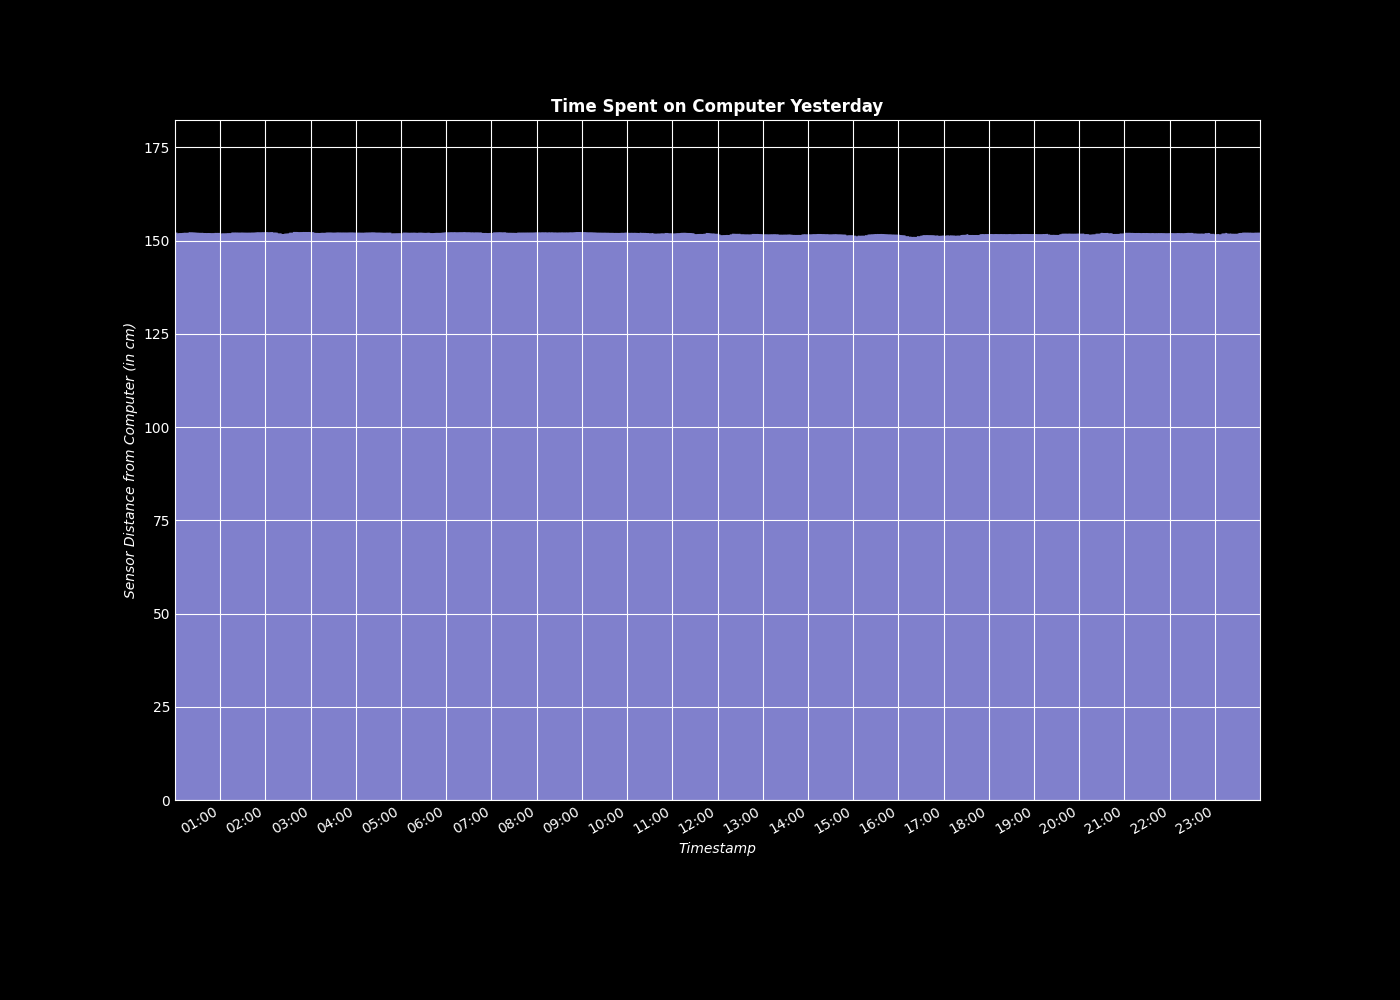
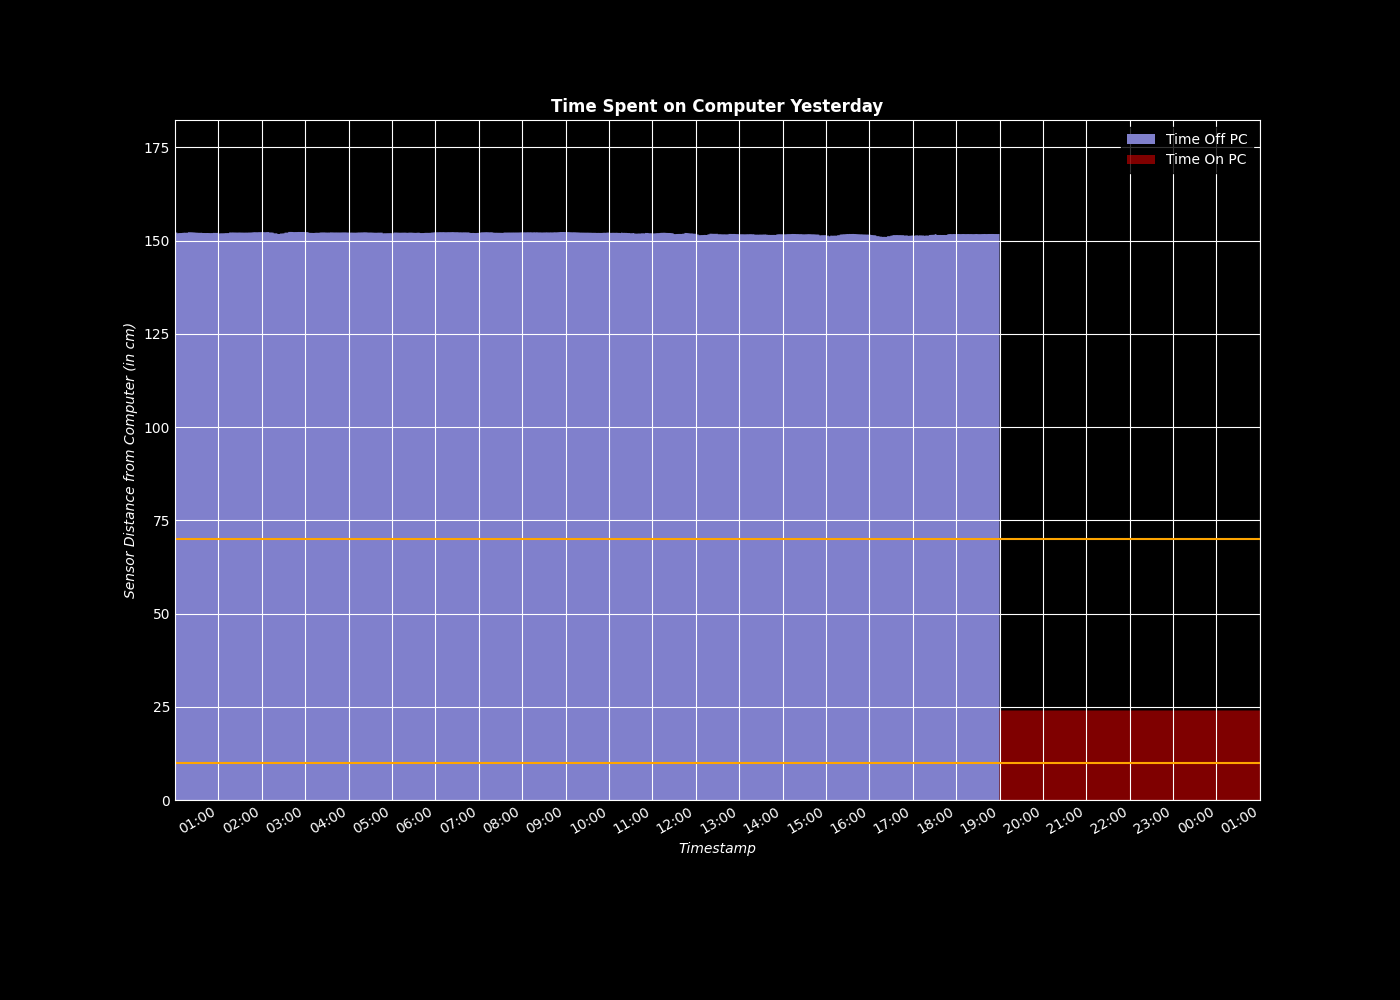
adding on_pc legend

diff --git a/Pi/readme/visualisation.py b/Pi/readme/visualisation.py
@@ -7,62 +7,66 @@ from pathlib import Path
 import pandas as pd
 from datetime import datetime, date, timedelta
 
+LOWER_LIMIT = 10
+HIGHER_LIMIT = 70
 
-def get_data(is_pi=False, date_filter=date.today() - timedelta(days=1)):
+
+def get_data(is_pi=False, day=1):
+    date_filter = date.today() - timedelta(days=day)
     dir_path = os.path.dirname(os.path.realpath(__file__))
     file_path = "data.json"
     if not is_pi:
         # Get data from saved dir since we can't access db
         with open(f"{dir_path}/{file_path}", "r") as data_file:
             data = json.load(data_file)
-        return data
+    else:
+        path = Path(dir_path)
+        parent_path = path.parent.absolute()
+        conn = db.connect_db(f"{parent_path}/db/mariadb_config.json")
+        cur = conn.cursor()
+        data = db.read_data(conn, cur, date_filter)
+        conn.close()
 
-    path = Path(dir_path)
-    parent_path = path.parent.absolute()
-    conn = db.connect_db(f"{parent_path}/db/mariadb_config.json")
-    cur = conn.cursor()
-    data = db.read_data(conn, cur, date_filter)
-    conn.close()
-
-    with open(f"{path}/{file_path}", "w") as data_file:
-        json.dump(data, data_file, indent=4, sort_keys=True, default=str)
-    return data
+        with open(f"{path}/{file_path}", "w") as data_file:
+            json.dump(data, data_file, indent=4, sort_keys=True, default=str)
+    df = pd.DataFrame.from_records(data)
+    df = preprocess_data(df, date_filter)
+    return df
 
 
-def preprocess_data(data):
+def preprocess_data(df, date_filter):
+    min_date = date_filter
+    max_date = date_filter + timedelta(days=1)
+    df.columns = ["id", "TimestampString", "Distance"]
     # Every 15 mins
     hours_period = 0.25
-    dates = [x[1] for x in data]
-    distance = [x[2] for x in data]
-    df_all = pd.DataFrame({"TimestampString": dates, "Distance": distance})
-    df_all["Timestamp"] = pd.to_datetime(df_all["TimestampString"], format="%Y-%m-%d %H:%M:%S")
-    df_all.index = df_all["Timestamp"]
+    df["Timestamp"] = pd.to_datetime(df["TimestampString"], format="%Y-%m-%d %H:%M:%S")
+    df.index = df["Timestamp"]
     # Smoothing the data
-    df_all["Distance"] = df_all["Distance"].rolling(window=timedelta(hours=hours_period), center=True).mean()
-    # Today's data, still needed for local data, would remove this redundant line later on
-    min_date = date.today() - timedelta(days=1)
-    df = df_all[(df_all["Timestamp"].dt.date >= min_date) & (date.today() > df_all["Timestamp"].dt.date)]
-    df["on_pc"] = df["Distance"] < 90
+    df["Distance"] = df["Distance"].rolling(window=timedelta(hours=hours_period), center=True).mean()
+    df.loc[df["Timestamp"]>'2024-02-16 19:00:00', "Distance"] = 24
+    df["on_pc"] = (df["Distance"] > LOWER_LIMIT) & (df["Distance"] < HIGHER_LIMIT)
     return df
 
 
 def on_pc_plot(df, is_pi):
     ax = plt.subplot(111)
-    ax.bar(df["Timestamp"], df["Distance"])
-    ax.xaxis_date()
+    ax.plot(df["Timestamp"], df["on_pc"].astype(int))
+    # Fixing xlabels
+    ax.xaxis.set_major_locator(md.MinuteLocator(byminute=[0, 60]))
+    ax.xaxis.set_major_formatter(md.DateFormatter('%H:%M'))
     if not is_pi:
         plt.show()
 
 
 def sensor_plot(df, is_pi, color):
-    # Adding threshold to detect if on PC
-    df["on_pc"] = df["Distance"] < 70
     # Add the line over the area with the plot function
     fig = plt.figure(figsize=[14, 10])
     ax = plt.subplot(111)
 
     # Fill the area with fill_between
-    l = ax.fill_between(df['Timestamp'], df['Distance'], alpha=1)
+    l = ax.fill_between(df['Timestamp'], df['Distance'], where=~df["on_pc"], alpha=1)
+    l2 = ax.fill_between(df['Timestamp'], df['Distance'], where=df["on_pc"], facecolor="red", alpha=0.5)
 
     # Control the title of each facet
     # set the basic properties
@@ -101,7 +105,12 @@ def sensor_plot(df, is_pi, color):
     ax.xaxis.set_major_locator(md.MinuteLocator(byminute=[0, 60]))
     ax.xaxis.set_major_formatter(md.DateFormatter('%H:%M'))
     # plt.setp(ax.xaxis.get_majorticklabels(), rotation=90)
+    plt.axhline(y=HIGHER_LIMIT, color="orange")
+    plt.axhline(y=LOWER_LIMIT, color="orange")
     fig.autofmt_xdate()
+
+    # Legend
+    ax.legend(["Time Off PC", "Time On PC"], loc="best", edgecolor="black")
     # Save figure
     dir_path = os.path.dirname(os.path.realpath(__file__))
     plt.savefig(f"{dir_path}/graphs/{color}-plot-{datetime.now().strftime('%Y-%m-%d')}.png")
@@ -110,13 +119,13 @@ def sensor_plot(df, is_pi, color):
         plt.show()
 
 
-def light_plot(data, is_pi):
-    sensor_plot(data, is_pi, "light")
+def light_plot(df, is_pi):
+    sensor_plot(df, is_pi, "light")
 
 
-def dark_plot(data, is_pi):
+def dark_plot(df, is_pi):
     plt.style.use('dark_background')
-    sensor_plot(data, is_pi, "dark")
+    sensor_plot(df, is_pi, "dark")
 
 
 if __name__ == "__main__":
@@ -130,6 +139,7 @@ if __name__ == "__main__":
         is_pi = os.uname().nodename == pi_info["hostname"]
     except FileNotFoundError:
         is_pi = False
-    data = get_data(is_pi)
+    data = get_data(is_pi, 3)
     light_plot(data, is_pi)
     dark_plot(data, is_pi)
+    # on_pc_plot(data, is_pi)
